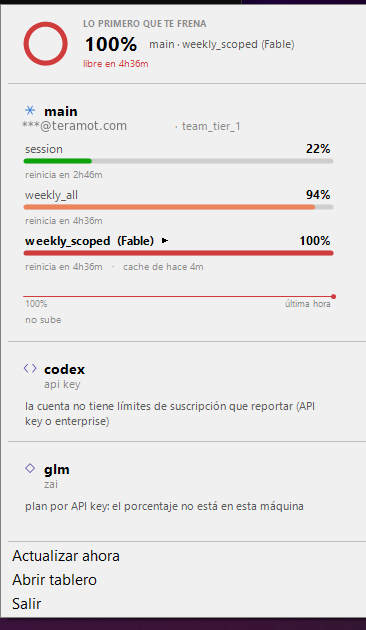
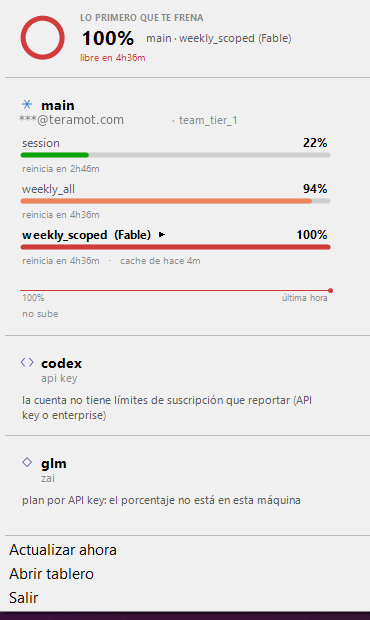
las capturas vienen de máquinas distintas; la galería las iguala
Cada una traía su propio tamaño y su propia escala, así que la sección se veía
como tres imágenes sueltas. Ahora hay dos filas: las tiras de barra a una altura
común —la de GNOME está dibujada a 3x y la bandeja de Windows es un recorte a
1x, y a la misma altura las dos quedan nítidas— y los paneles a un alto común,
recortados abajo con un degradado porque ninguno entra entero.

Las columnas de panel tienen ancho máximo a propósito: estiradas a media página,
un recorte a 1x se ve blando. Y así entra la de macOS como tercera sin tocar nada.

El recorte de Windows se ajustó: el anterior se llevaba tres filas de escritorio
en el borde de arriba. Se verificó midiendo píxeles, no a ojo.

El héroe: título más corto —la misma idea en una línea y media en vez de tres—,
Fraunces en lugar de Instrument Serif, el logotipo de Legios arriba de todo y no
sólo en el pie, y la ingeniería firmada donde se lee primero.

diff --git a/docs/index.html b/docs/index.html
@@ -13,7 +13,7 @@
 <meta name="twitter:card" content="summary_large_image">
 <link rel="preconnect" href="https://fonts.googleapis.com">
 <link rel="preconnect" href="https://fonts.gstatic.com" crossorigin>
-<link href="https://fonts.googleapis.com/css2?family=Instrument+Serif:ital@0;1&family=Inter:wght@400;500;600;700&family=JetBrains+Mono:wght@400;500&display=swap" rel="stylesheet">
+<link href="https://fonts.googleapis.com/css2?family=Fraunces:opsz,wght@9..144,400;9..144,600&family=Inter:wght@400;500;600;700&family=JetBrains+Mono:wght@400;500&display=swap" rel="stylesheet">
 <style>
 :root{
   /* Los colores son los del programa: la rampa verde → ámbar → rojo con la que
@@ -25,7 +25,7 @@
   --texto:#f0ece5; --medio:rgba(240,236,229,.66); --tenue:rgba(240,236,229,.44);
   --verde:#2fbf71; --ambar:#f2b134; --rojo:#e2483d; --legios:#3FB7F0;
   --radio:14px; --ancho:1120px;
-  --serif:"Instrument Serif",Georgia,"Times New Roman",serif;
+  --serif:"Fraunces",Georgia,"Times New Roman",serif;
   --mono:"JetBrains Mono",ui-monospace,SFMono-Regular,Menlo,monospace;
 }
 *{box-sizing:border-box}
@@ -37,8 +37,9 @@ body{
 }
 .env{max-width:var(--ancho);margin:0 auto;padding:0 24px}
 a{color:inherit}
-h1,h2{font-family:var(--serif);font-weight:400;line-height:1.06;letter-spacing:-.012em;margin:0}
-h1{font-size:clamp(33px,3.8vw,49px);letter-spacing:-.016em;line-height:1.1;max-width:19ch}
+h1,h2{font-family:var(--serif);font-weight:400;line-height:1.04;letter-spacing:-.015em;margin:0;
+  font-variation-settings:"SOFT" 40,"WONK" 1,"opsz" 100}
+h1{font-size:clamp(40px,5.2vw,66px);line-height:1.02;max-width:13ch}
 h2{font-size:clamp(32px,4vw,46px)}
 h3{font-size:17.5px;font-weight:600;letter-spacing:-.01em;margin:0;line-height:1.3}
 em.it{font-family:var(--serif);font-style:italic;font-size:1.06em}
@@ -78,9 +79,17 @@ header{position:sticky;top:0;z-index:20;backdrop-filter:blur(14px);
 .ceja{display:inline-flex;align-items:center;gap:8px;padding:5px 12px;border:1px solid var(--borde2);
   border-radius:999px;font-size:12.5px;font-weight:500;color:var(--medio);margin-bottom:22px}
 .ceja b{color:var(--ambar);font-weight:600}
-.heroe p.bajada{color:var(--medio);font-size:16.5px;margin-top:24px;max-width:47ch}
-.heroe .rotulo{margin-bottom:26px}
-.heroe .rotulo b{color:var(--texto);font-weight:500}
+.heroe p.bajada{color:var(--medio);font-size:17px;margin-top:22px;max-width:46ch}
+/* El nombre, y de quién es. El logotipo de Legios va acá y no sólo en el pie:
+   es la primera cosa que se lee. */
+.lockup{display:flex;align-items:center;gap:12px;margin-bottom:30px;
+  font:500 11.5px/1 var(--mono);letter-spacing:.16em;text-transform:uppercase;color:var(--tenue)}
+.lockup b{color:var(--texto);font-weight:500}
+.lockup img{opacity:.92;display:block}
+.lockup a{display:flex;align-items:center}
+.creditos{margin-top:20px;padding-top:16px;border-top:1px solid var(--borde);
+  font:400 12.5px/1.5 var(--mono);letter-spacing:.02em;color:var(--tenue);max-width:46ch}
+.creditos b{color:var(--medio);font-weight:500}
 .enlaces{display:flex;gap:24px;flex-wrap:wrap;margin-top:26px;font-size:14.5px}
 .enlaces a{color:var(--medio);text-decoration:none;border-bottom:1px solid var(--borde2);padding-bottom:3px}
 .enlaces a:hover{color:var(--ambar);border-color:var(--ambar)}
@@ -148,14 +157,29 @@ section{padding:76px 0}
 .mal{opacity:.5}
 
 /* ── instalación ── */
-.dos{display:grid;grid-template-columns:366px 1fr;gap:26px;margin-top:20px;align-items:start}
-.dos figure{margin:0}
-.dos img{width:100%;display:block;border-radius:12px;border:1px solid var(--borde);
-  box-shadow:0 18px 46px rgba(0,0,0,.5)}
-/* La bandeja es un recorte chico: estirado a 680 px se ve blando. */
-.dos .bandeja img{width:auto;max-width:100%;image-rendering:auto}
-.dos figcaption{color:var(--tenue);font-size:12.5px;margin-top:10px}
-@media (max-width:860px){.dos{grid-template-columns:1fr}}
+/* La galería: las capturas vienen de máquinas distintas y con tamaños
+   distintos, así que se las iguala acá en vez de dejar que cada una imponga el
+   suyo. Las tiras van a una altura fija —la barra de GNOME se dibujó a 3x, la
+   bandeja de Windows es un recorte a 1x, y a la misma altura las dos quedan
+   nítidas— y los paneles a un alto común, recortados abajo con un degradado
+   porque ninguno entra entero. */
+.galeria{display:grid;gap:20px;margin-top:22px}
+.galeria figure{margin:0}
+.galeria figcaption{color:var(--tenue);font-size:12.5px;margin-top:10px}
+.galeria figcaption b{color:var(--medio);font-weight:600}
+.tiras{grid-template-columns:repeat(2,1fr)}
+.tira{height:78px;display:grid;place-items:center;background:var(--sup);
+  border:1px solid var(--borde);border-radius:12px;overflow:hidden}
+.tira img{height:46px;width:auto;display:block}
+/* Con un ancho máximo por columna: el de Windows es un recorte a 1x y estirado
+   a 525 px se ve blando. Así entra la de macOS como tercera sin cambiar nada. */
+.paneles{grid-template-columns:repeat(auto-fit,minmax(260px,346px));justify-content:start}
+.recorte{position:relative;height:400px;overflow:hidden;border-radius:12px;
+  border:1px solid var(--borde);box-shadow:0 18px 46px rgba(0,0,0,.45)}
+.recorte img{width:100%;display:block}
+.recorte::after{content:"";position:absolute;left:0;right:0;bottom:0;height:110px;
+  background:linear-gradient(to bottom,transparent,var(--fondo))}
+@media (max-width:700px){.tiras{grid-template-columns:1fr}}
 .pestanas{display:flex;gap:6px;flex-wrap:wrap;margin-bottom:16px}
 .pestanas button{border:1px solid var(--borde);background:var(--sup);color:var(--medio);
   padding:9px 15px;border-radius:11px;cursor:pointer;font:500 14px Inter,sans-serif}
@@ -217,14 +241,17 @@ footer a:hover{color:var(--texto)}
 
 <div class="env heroe">
   <div>
-    <div class="rotulo"><b>quartermaster</b> un instrumento de Legios</div>
-    <h1>Nadie debería enterarse de que se quedó sin cuota chocándose contra el límite.</h1>
+    <div class="lockup">
+      <b>quartermaster</b>
+      <span>un instrumento de</span>
+      <a href="https://github.com/legiosai" aria-label="Legios"><img src="legios.svg" alt="Legios" width="104" height="40"></a>
+    </div>
+    <h1>Enterate antes de chocarte contra el límite.</h1>
     <p class="bajada">
-      Los monitores que hay leen una credencial: la del directorio por defecto.
-      En la máquina donde se escribió esto ese directorio está vacío y las dos
-      cuentas que se usan viven en otros dos. Éste los lee todos —más Codex y
-      los proveedores de opencode— y no necesita red ni credenciales para hacerlo.
+      Los que hay leen una credencial: la del directorio por defecto. Éste lee
+      todos tus perfiles, más Codex y opencode, sin red y sin credenciales.
     </p>
+    <p class="creditos">Ingeniería de <b>Valentín&nbsp;Torassa</b> y <b>Sol&nbsp;Soletti</b></p>
     <div class="so" role="tablist" aria-label="Sistema operativo">
       <button role="tab" aria-selected="true" data-so="mac">
         <svg viewBox="0 0 24 24" aria-hidden="true"><path d="M9 9h6v6H9z"/><path d="M9 9V7a2 2 0 1 0-2 2z"/><path d="M15 9V7a2 2 0 1 1 2 2z"/><path d="M9 15v2a2 2 0 1 1-2-2z"/><path d="M15 15v2a2 2 0 1 0 2-2z"/></svg>macOS</button>
@@ -352,22 +379,31 @@ footer a:hover{color:var(--texto)}
         <p><code>qm --breve</code></p>
       </div>
     </div>
-    <div class="dos aparece">
+    <div class="galeria tiras aparece">
       <figure>
-        <img src="img/windows-panel.png" alt="El panel de quartermaster corriendo en Windows, en tema claro: el anillo al 100 %, la cuenta main con sus tres barras, y abajo codex y glm.">
-        <figcaption>El mismo panel en Windows, con el tema claro del sistema.</figcaption>
+        <div class="tira"><img src="img/barra.png" alt="La barra de arriba de GNOME con tres medidores verticales y sus números."></div>
+        <figcaption><b>GNOME</b> · un medidor por cuenta, arriba a la derecha</figcaption>
       </figure>
-      <div>
-        <figure class="bandeja">
-          <img src="img/windows-bandeja.png" alt="La bandeja de Windows con los iconos de quartermaster: opencode, codex y Claude con su medidor en rojo.">
-          <figcaption>Y en la bandeja, un icono por producto.</figcaption>
-        </figure>
-        <pre style="margin-top:18px"><span class="p">$</span> qm --breve
-main 46/89%! · teams 36/60%! · codex 50/100%!
-<span class="c"># sesión/semana por cuenta.
-# «!» es una barra que el servidor marcó con aviso.</span></pre>
-      </div>
+      <figure>
+        <div class="tira"><img src="img/windows-bandeja.png" alt="La bandeja de Windows con un icono por producto: opencode, codex y Claude con su medidor."></div>
+        <figcaption><b>Windows</b> · un icono por producto en la bandeja</figcaption>
+      </figure>
     </div>
+
+    <div class="galeria paneles aparece">
+      <figure>
+        <div class="recorte"><img src="img/panel.png" alt="El panel en GNOME, tema oscuro: el anillo de lo primero que te frena y una tarjeta por cuenta."></div>
+        <figcaption><b>GNOME</b> · tema oscuro</figcaption>
+      </figure>
+      <figure>
+        <div class="recorte"><img src="img/windows-panel.png" alt="El mismo panel en Windows, tema claro, con la cuenta main al 100 % de su barra semanal."></div>
+        <figcaption><b>Windows</b> · tema claro</figcaption>
+      </figure>
+    </div>
+
+    <pre class="aparece" style="margin-top:22px"><span class="p">$</span> qm --breve
+main 46/89%! · teams 36/60%! · codex 50/100%!
+<span class="c"># sesión/semana por cuenta. «!» es una barra que el servidor marcó con aviso.</span></pre>
   </div>
 </section>
 
